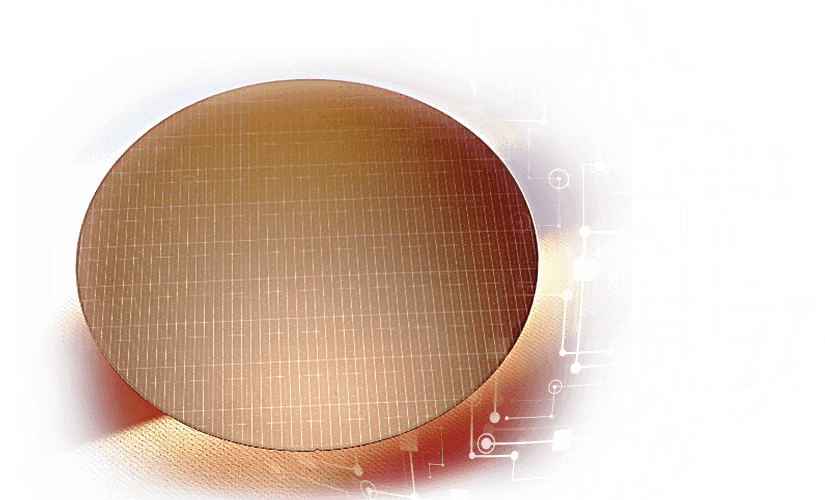
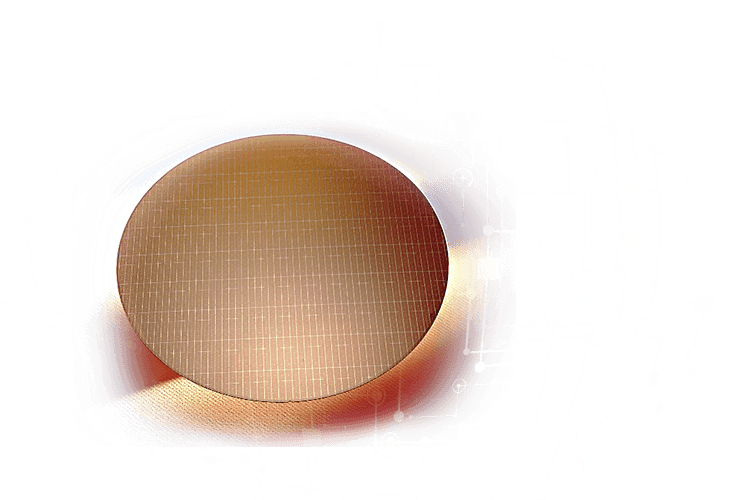
改圖縮小

diff --git a/index-1.html b/index-1.html
@@ -122,7 +122,7 @@
 
 					<!-- LAYER NR. 2 -->
 					<div class="tp-caption customin ltl tp-resizeme revo-slider-caps-text uppercase"
-					data-x="-50"
+					data-x="0"
 					data-y="0"
 					data-customin="x:-200;y:0;z:0;rotationZ:0;scaleX:1;scaleY:1;skewX:0;skewY:0;opacity:0;transformPerspective:200;transformOrigin:50% 0%;"
 					data-speed="400"
@@ -136,7 +136,7 @@
 					data-endeasing="Power4.easeIn" style="margin-top: 0px;"><img src="images/products/banner-pic_02.png" alt=""></div>
 
 					<div class="tp-caption customin ltl tp-resizeme revo-slider-emphasis-text nopadding noborder"
-					data-x="600"
+					data-x="550"
 					data-y="220"
 					data-customin="x:0;y:150;z:0;rotationZ:0;scaleX:1.3;scaleY:1;skewX:0;skewY:0;opacity:0;transformPerspective:200;transformOrigin:50% 0%;"
 					data-speed="700"
@@ -150,7 +150,7 @@
 					data-endeasing="Power4.easeIn" style=" color: #333; max-width: 430px; line-height: 1.15;">Professional</div>
 
 					<div class="tp-caption customin ltl tp-resizeme revo-slider-desc-text tleft"
-					data-x="630"
+					data-x="580"
 					data-y="275"
 					data-customin="x:0;y:150;z:0;rotationZ:0;scaleX:1.3;scaleY:1;skewX:0;skewY:0;opacity:0;transformPerspective:200;transformOrigin:50% 0%;"
 					data-speed="700"
